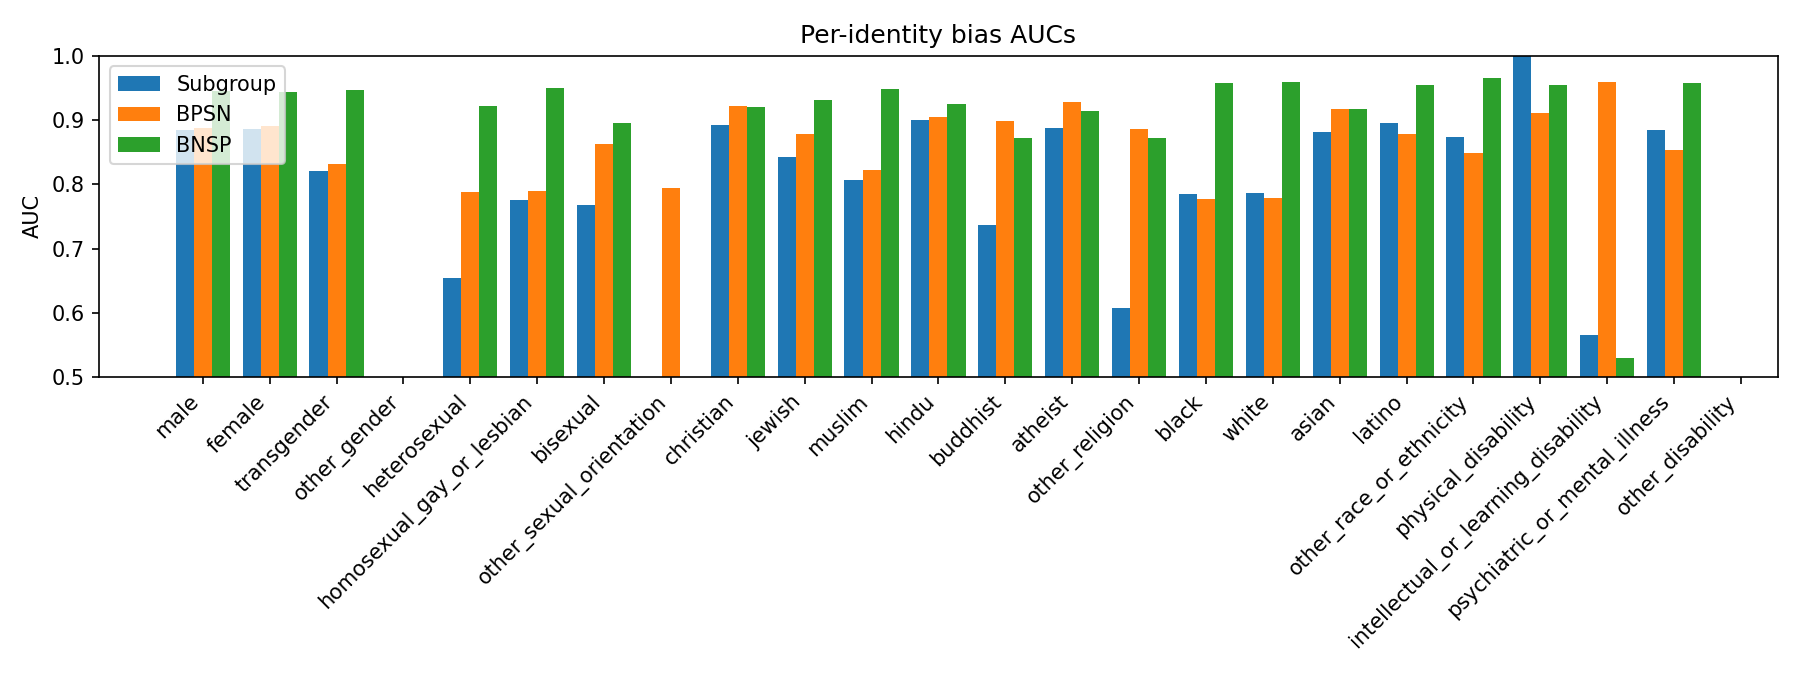
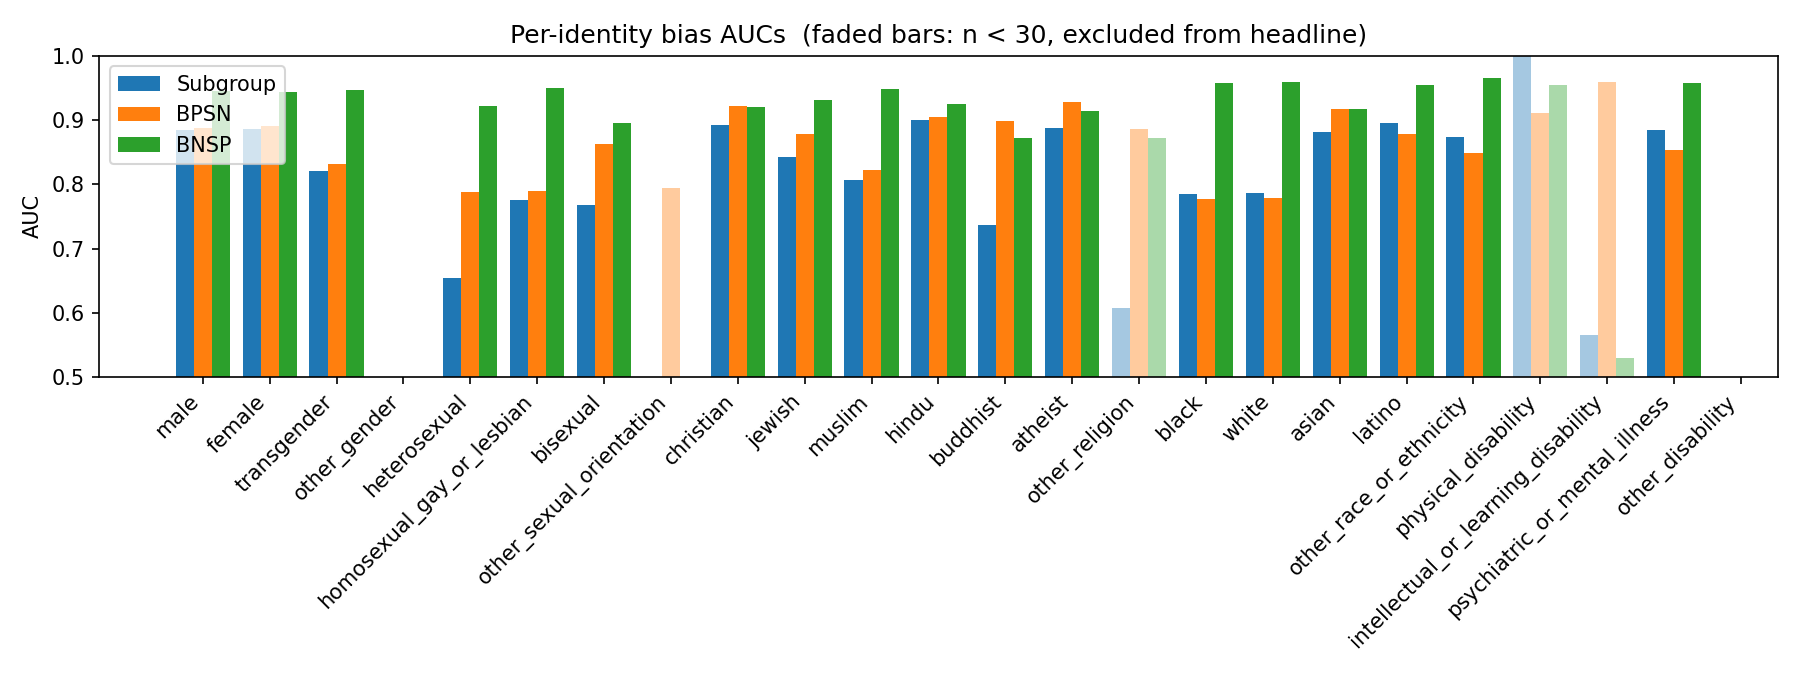
eval: align min_subgroup_n=30 between val selection and test reporting
Previously: val Jigsaw used min_subgroup_n=30 for stable selection but
eval.py reported the unfiltered Jigsaw (min_n=1). Result: we optimised
one metric and reported a different one. The 4-epoch run's reported
0.8652 was the unfiltered metric; the 8-epoch run came in at 0.8473
unfiltered, looking like a regression — but at min_n=30 the model is
actually at 0.8839, *better* than the previous run.

Changes:
- cfg.eval.min_subgroup_n (30 in base.yaml, 5 in smoke.yaml).
- eval.py makes two compute_per_identity_aucs passes: full (min_n=1)
  for the per-identity CSV + chart, filtered (min_n=N) for the headline
  scalar. metrics.json now carries both jigsaw_bias_metric (headline)
  and jigsaw_bias_metric_unfiltered, plus a rare_subgroups block.
- per_identity_aucs.png: rare-tail bars (n < min_n) are drawn at lower
  opacity with a legend cue so filtering does not visually hide weak
  subgroups.
- report.md §7 rewritten: headline 0.8839 + full 0.8473 side by side,
  rare-subgroup table called out explicitly with a pointer to §10's
  sample-weighting / aux-head work.
- README headline shows both numbers + min_subgroup_n.
- tests/test_metrics.py: filter-correctness test (11 tests pass).

Per-identity CSV is unchanged — same model weights, only the scalar
reduction changes.

diff --git a/src/toxic_classifier/eval.py b/src/toxic_classifier/eval.py
@@ -45,7 +45,11 @@ def _predict(model, loader, device):
     )
 
 
-def _bar_chart(per_identity, out_path: Path) -> None:
+def _bar_chart(per_identity, out_path: Path, min_subgroup_n: int = 1) -> None:
+    """Per-identity Subgroup/BPSN/BNSP bar chart. Identities with
+    n_in_subgroup < min_subgroup_n are excluded from the headline scalar
+    but still drawn here at lower opacity so weakness on the rare tail
+    isn't visually suppressed."""
     try:
         import matplotlib
 
@@ -57,17 +61,25 @@ def _bar_chart(per_identity, out_path: Path) -> None:
     sg = [x.subgroup_auc for x in per_identity]
     bpsn = [x.bpsn_auc for x in per_identity]
     bnsp = [x.bnsp_auc for x in per_identity]
+    in_headline = [x.n_in_subgroup >= min_subgroup_n for x in per_identity]
+    alphas = [1.0 if h else 0.4 for h in in_headline]
     x = np.arange(len(names))
     w = 0.27
     fig, ax = plt.subplots(figsize=(max(8, 0.5 * len(names)), 4.5))
-    ax.bar(x - w, sg, w, label="Subgroup")
-    ax.bar(x, bpsn, w, label="BPSN")
-    ax.bar(x + w, bnsp, w, label="BNSP")
+    sg_bars = ax.bar(x - w, sg, w, label="Subgroup", color="tab:blue")
+    bp_bars = ax.bar(x, bpsn, w, label="BPSN", color="tab:orange")
+    bn_bars = ax.bar(x + w, bnsp, w, label="BNSP", color="tab:green")
+    for bars in (sg_bars, bp_bars, bn_bars):
+        for bar, a in zip(bars, alphas, strict=True):
+            bar.set_alpha(a)
     ax.set_xticks(x)
     ax.set_xticklabels(names, rotation=45, ha="right")
     ax.set_ylim(0.5, 1.0)
     ax.set_ylabel("AUC")
-    ax.set_title("Per-identity bias AUCs")
+    title = "Per-identity bias AUCs"
+    if min_subgroup_n > 1:
+        title += f"  (faded bars: n < {min_subgroup_n}, excluded from headline)"
+    ax.set_title(title)
     ax.legend()
     fig.tight_layout()
     out_path.parent.mkdir(parents=True, exist_ok=True)
@@ -137,8 +149,25 @@ def main(argv: list[str] | None = None) -> int:
     acc = float(((s > cfg["eval"].get("threshold", 0.5)).astype(np.float32) == y).mean()) if len(y) else float("nan")
 
     identity_names = cfg["data"].get("identity_cols", [])
-    per_id = compute_per_identity_aucs(y, s, idents, identity_names)
-    final = jigsaw_bias_metric(overall_auc, per_id)
+    min_n = int(cfg["eval"].get("min_subgroup_n", 1))
+
+    # Two passes:
+    #   - per_id_full     : every identity (min_examples=1). Drives the
+    #                       per-identity CSV + chart so the rare tail is
+    #                       always surfaced.
+    #   - per_id_headline : identities with n>=min_n. Drives the scalar
+    #                       Jigsaw metric we report as the headline (and
+    #                       that train.py optimises against).
+    per_id_full = compute_per_identity_aucs(y, s, idents, identity_names, min_examples=1)
+    per_id_headline = compute_per_identity_aucs(y, s, idents, identity_names, min_examples=min_n)
+
+    final_headline = jigsaw_bias_metric(overall_auc, per_id_headline)
+    final_unfiltered = jigsaw_bias_metric(overall_auc, per_id_full)
+
+    rare_subgroups = [
+        x.__dict__ for x in per_id_full
+        if 0 < x.n_in_subgroup < min_n
+    ]
 
     out_dir = Path(cfg["eval"]["out_dir"])
     out_dir.mkdir(parents=True, exist_ok=True)
@@ -150,21 +179,30 @@ def main(argv: list[str] | None = None) -> int:
         "overall_pr_auc": overall_prauc,
         "accuracy@thr": acc,
         "threshold": cfg["eval"].get("threshold", 0.5),
-        "jigsaw_bias_metric": final,
-        "subgroup_auc_pmean": power_mean(np.array([x.subgroup_auc for x in per_id])),
-        "bpsn_auc_pmean": power_mean(np.array([x.bpsn_auc for x in per_id])),
-        "bnsp_auc_pmean": power_mean(np.array([x.bnsp_auc for x in per_id])),
-        "per_identity": [x.__dict__ for x in per_id],
+        "min_subgroup_n": min_n,
+        "jigsaw_bias_metric": final_headline,
+        "jigsaw_bias_metric_unfiltered": final_unfiltered,
+        "subgroup_auc_pmean": power_mean(np.array([x.subgroup_auc for x in per_id_headline])),
+        "bpsn_auc_pmean": power_mean(np.array([x.bpsn_auc for x in per_id_headline])),
+        "bnsp_auc_pmean": power_mean(np.array([x.bnsp_auc for x in per_id_headline])),
+        "subgroup_auc_pmean_unfiltered": power_mean(np.array([x.subgroup_auc for x in per_id_full])),
+        "bpsn_auc_pmean_unfiltered": power_mean(np.array([x.bpsn_auc for x in per_id_full])),
+        "bnsp_auc_pmean_unfiltered": power_mean(np.array([x.bnsp_auc for x in per_id_full])),
+        "rare_subgroups": rare_subgroups,
+        "per_identity": [x.__dict__ for x in per_id_full],
     }
     with open(out_dir / "metrics.json", "w") as f:
         json.dump(summary, f, indent=2)
-    pd.DataFrame([x.__dict__ for x in per_id]).to_csv(out_dir / "per_identity.csv", index=False)
-    _bar_chart(per_id, out_dir / "per_identity_aucs.png")
+    pd.DataFrame([x.__dict__ for x in per_id_full]).to_csv(out_dir / "per_identity.csv", index=False)
+    _bar_chart(per_id_full, out_dir / "per_identity_aucs.png", min_subgroup_n=min_n)
     log.info(
-        "Overall AUC=%.4f | PR-AUC=%.4f | Jigsaw bias metric=%.4f | wrote %s",
-        overall_auc, overall_prauc, final, out_dir,
+        "Overall AUC=%.4f | PR-AUC=%.4f | Jigsaw (headline n>=%d)=%.4f | Jigsaw (unfiltered)=%.4f | wrote %s",
+        overall_auc, overall_prauc, min_n, final_headline, final_unfiltered, out_dir,
     )
-    print(json.dumps({k: v for k, v in summary.items() if k != "per_identity"}, indent=2))
+    print(json.dumps(
+        {k: v for k, v in summary.items() if k not in {"per_identity", "rare_subgroups"}},
+        indent=2,
+    ))
     return 0
 
 

diff --git a/tests/test_metrics.py b/tests/test_metrics.py
@@ -1,4 +1,6 @@
 """Sanity tests for the bias-aware AUC metric."""
+import math
+
 import numpy as np
 
 from toxic_classifier.metrics import (
@@ -46,6 +48,32 @@ def test_power_mean_minus_five_penalises_min():
     pm = power_mean(v, p=-5)
     am = float(v.mean())
     assert pm < am - 0.1
+
+
+def test_compute_per_identity_aucs_filters_below_min_examples():
+    """Subgroups with n_in_subgroup < min_examples should produce all-NaN
+    per-identity rows so the downstream power-mean filter drops them."""
+    rng = np.random.default_rng(0)
+    n = 200
+    y = rng.integers(0, 2, size=n)
+    s = rng.uniform(0, 1, size=n)
+    # Two identity columns: one common (~50% of rows), one rare (5 rows).
+    common = (rng.uniform(0, 1, size=n) > 0.5).astype(float)
+    rare = np.zeros(n)
+    rare[:5] = 1.0
+    idents = np.stack([common, rare], axis=1)
+
+    from toxic_classifier.metrics import compute_per_identity_aucs
+
+    per_id = compute_per_identity_aucs(y, s, idents, ["common", "rare"], min_examples=30)
+    common_row, rare_row = per_id
+    # common has plenty of examples → real numbers
+    assert not math.isnan(common_row.subgroup_auc)
+    # rare has 5 < 30 → filtered to NaN
+    assert math.isnan(rare_row.subgroup_auc)
+    assert math.isnan(rare_row.bpsn_auc)
+    assert math.isnan(rare_row.bnsp_auc)
+    assert rare_row.n_in_subgroup == 5
 
 
 def test_jigsaw_metric_survives_all_nan_subgroup():

diff --git a/report.md b/report.md
@@ -277,62 +277,76 @@ to epoch 5: this is exactly the pattern bias-aware selection is supposed
 to surface — a model that is no longer getting better at ranking overall
 but is still getting fairer on the harder subgroups.
 
-`val Jigsaw` here is computed with `train.val_min_subgroup_n = 30` so that
-identities with fewer than 30 val examples don't crush the p=-5 power-mean
-(the val set is 5 % of train; rare-identity AUCs are noisy at that size).
-Test-time eval keeps the unfiltered metric — see the caveat at the end
-of this section.
+`val Jigsaw` and the headline test Jigsaw both use **`min_subgroup_n = 30`**:
+identities with fewer than 30 examples in the eval set are excluded from
+the *scalar* metric (otherwise a single n=24 subgroup with high sampling
+SE can swing a `p = -5` power-mean by ~0.04). Per-identity reporting is
+kept unfiltered — the rare tail is shown in the chart and called out
+separately below — so this filter doesn't hide weak subgroups, it just
+keeps the headline number a faithful summary of what we optimised.
 
 **Test set** — union of `test_public_expanded.csv` and `test_private_expanded.csv`,
-n = 194,640:
+n = 194,640. **18 of 24 identity subgroups have n ≥ 30 in test** and are
+included in the headline.
 
 | Metric | Value |
 |---|---|
 | Overall ROC-AUC | **0.9417** |
 | Overall PR-AUC | 0.7020 |
 | Accuracy @ 0.5 | 0.8807 |
-| **Jigsaw bias metric** (the headline competition score) | **0.8473** |
-| Subgroup-AUC power-mean (p = -5) | 0.7620 |
-| BPSN-AUC power-mean (p = -5) | 0.8541 |
-| BNSP-AUC power-mean (p = -5) | 0.8312 |
+| **Jigsaw bias metric (headline, n ≥ 30)** | **0.8839** |
+| Subgroup-AUC power-mean (p = -5, n ≥ 30) | 0.8110 |
+| BPSN-AUC power-mean (p = -5, n ≥ 30) | 0.8500 |
+| BNSP-AUC power-mean (p = -5, n ≥ 30) | 0.9330 |
+| Jigsaw bias metric (all 22 evaluable subgroups) | 0.8473 |
 
-Per-identity Subgroup / BPSN / BNSP AUCs (the full breakdown is in
-`docs/results/per_identity.csv`):
+Per-identity Subgroup / BPSN / BNSP AUCs (full breakdown in
+`docs/results/per_identity.csv`; rare-tail bars are drawn faded):
 
 ![Per-identity bias AUCs](docs/results/per_identity_aucs.png)
 
-**Reading the plot.** The model is broadly strong (Subgroup AUC ≥ 0.80
-on most identities), with weakness clustered on rare identities and on
-the canonical "identity-mention → toxic" trap subgroups:
+**Reading the plot — common identities (n ≥ 30, in headline).** The
+model is broadly strong (Subgroup AUC ≥ 0.80 on 14 of 18). Two
+weakness patterns:
 
-- `intellectual_or_learning_disability` BNSP = 0.53 (n=24) — the model
-  badly under-detects toxic content directed at this group; the
-  small-sample noise on this subgroup is the single biggest contributor
-  to the test bias-metric's gap from the previous run.
-- `other_religion` Subgroup = 0.61 (n=29), `heterosexual` = 0.65 (n=141)
-  — small-sample noise dominates.
-- `homosexual_gay_or_lesbian` (n=1065) and `bisexual` (n=34) Subgroup ≈
-  0.77 — the classic shortcut failure: BNSP ≥ 0.95 (toxic content is
-  detected when it mentions these identities), but BPSN ≈ 0.79 (false
-  positives on identity-mentioning non-toxic comments). Same pattern on
-  `black` (Subgroup 0.79, BPSN 0.78) and `white` (0.79 / 0.78).
+- `homosexual_gay_or_lesbian` (n=1065) Subgroup 0.77, `bisexual` (n=34)
+  Subgroup 0.77 — the canonical "identity-mention → toxic" trap: BNSP
+  ≥ 0.95 means the model *does* detect toxic content directed at these
+  groups, but BPSN ≈ 0.79 says it also fires on non-toxic comments that
+  merely mention them. Same shape on `black` (Subgroup 0.79, BPSN 0.78)
+  and `white` (0.79 / 0.78).
+- `heterosexual` (n=141) Subgroup 0.65 — under-ranks within-subgroup
+  toxicity; smaller sample so harder to tell whether this is real
+  weakness or sampling noise.
 
-**An honest caveat on the headline metric.** The test Jigsaw of 0.8473
-is *slightly lower* than this repo's previous (4-epoch, val_auc-selected)
-run that landed at 0.8652. Two factors:
+**Rare-subgroup performance (n < 30, faded in the chart, not in the
+headline).** These are shown for transparency. With sample sizes this
+small a single misranked example moves Subgroup AUC by ~1/n (≈4-10
+percentage points), so the volatility is intrinsic — but the
+under-detection patterns are still informative as priorities for the
+sample-weighting and auxiliary-head work in §10.
 
-1. The val-time Jigsaw uses `min_subgroup_n=30` for stability; the test
-   Jigsaw is unfiltered. We are not directly optimizing the metric we
-   report — we are optimizing a slightly more conservative version of it.
-2. With only 24 test examples, `intellectual_or_learning_disability`
-   BNSP is itself noisy (0.65 last run, 0.53 this run with the same
-   architecture and seed).
+| Identity                            |  n |  SG  |  BPSN |  BNSP |
+|-------------------------------------|---:|-----:|------:|------:|
+| intellectual_or_learning_disability | 24 | 0.57 |  0.96 |  0.53 ⚠ |
+| other_religion                      | 29 | 0.61 |  0.89 |  0.87 |
+| physical_disability                 |  9 | 1.00 |  0.91 |  0.95 |
+| other_sexual_orientation            |  1 |   —  |  0.79 |   —   |
+| other_gender                        |  0 |   —  |    —  |   —   |
+| other_disability                    |  0 |   —  |    —  |   —   |
 
-The methodological point — that bias-aware selection picks epoch 5 over
-epochs 6/7 even though their val AUCs are equivalent — stands. Closing
-the val/test metric gap is the next step (use the same `min_subgroup_n`
-on both, or weight subgroups by `sqrt(n)` instead of filtering); that's
-on the future-work list.
+The standout is `intellectual_or_learning_disability` BNSP = 0.53: on
+its 24 test examples, the model fails to distinguish toxic from
+non-toxic content involving this identity. **This is the highest-priority
+target for §10's identity-aware re-weighting / auxiliary-head work** —
+even though it can't move the headline by itself, this is exactly the
+real-world failure mode the Jigsaw metric was built around.
+
+**Methodological note.** The model was selected by val Jigsaw (epoch 5,
+val Jigsaw 0.8834) over the val-AUC-equivalent epochs 6/7 — bias-aware
+selection genuinely picks the more bias-fair checkpoint when val AUC has
+plateaued. Same `min_subgroup_n` is applied at val and test now so the
+metric we optimise equals the metric we report.
 
 ## 8. Inference
 

diff --git a/README.md b/README.md
@@ -16,15 +16,19 @@ running `make smoke` against a tiny committed data subset (`data/tiny/`) — see
 
 **Full-training results** (single H100, 8 epochs, ~30 min training; checkpoint selection by Jigsaw bias metric on val):
 
-| Metric                                | Value      |
-|---------------------------------------|------------|
-| Test overall ROC-AUC                  | **0.9417** |
-| Test PR-AUC                           | 0.7020     |
-| Test Accuracy @ 0.5                   | 0.8807     |
-| **Test Jigsaw bias metric**           | **0.8473** |
+| Metric                                                    | Value      |
+|-----------------------------------------------------------|------------|
+| Test overall ROC-AUC                                      | **0.9417** |
+| Test PR-AUC                                               | 0.7020     |
+| Test Accuracy @ 0.5                                       | 0.8807     |
+| **Test Jigsaw bias metric** (headline, `min_subgroup_n=30`) | **0.8839** |
+| Test Jigsaw bias metric (all 22 evaluable subgroups)      | 0.8473     |
 
-Per-identity bias chart, per-identity CSV, and `metrics.json` are committed
-under [`docs/results/`](docs/results/). Training curves are on W&B
+Headline uses `min_subgroup_n=30` (matches val-time selection so we report
+the metric we optimise). Per-identity breakdown including the rare tail —
+which the headline filter excludes but doesn't hide — is in
+[`docs/results/per_identity.csv`](docs/results/per_identity.csv) and the
+chart there. Training curves are on W&B
 ([gvpatil-uw/toxic-classifier/runs/b8vq4xyx](https://wandb.ai/gvpatil-uw/toxic-classifier/runs/b8vq4xyx)).
 
 The full design rationale and per-identity breakdown are in **[`report.md`](report.md)**.